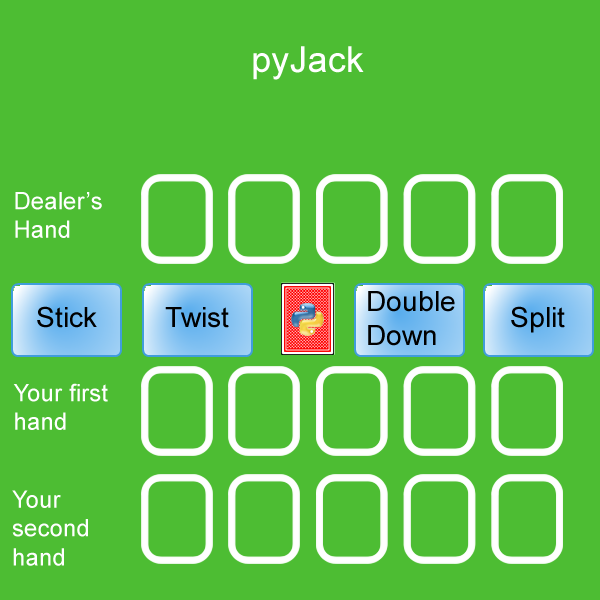
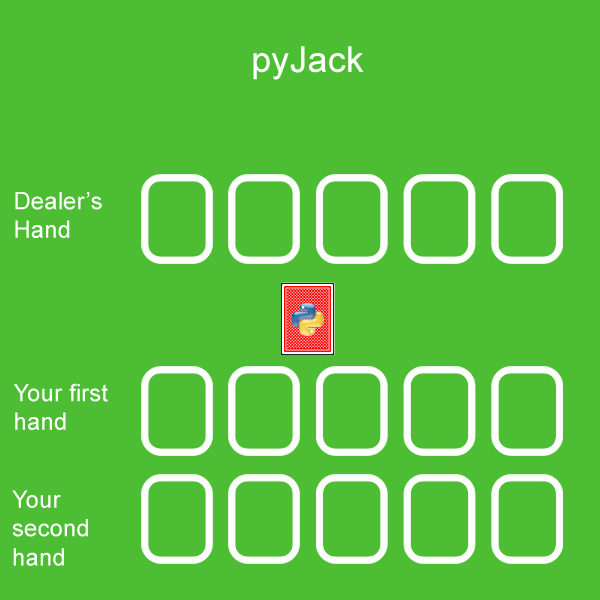
Program draws options
The program draws the various stick and twist options instead of
covering them up. This reduces onscreen flicker and makes the program
more aesthetically pleasing.

Changed region(s): [[0.57, 0.45, 0.99, 0.6], [0.0, 0.45, 0.42, 0.6]]

diff --git a/functions.py b/functions.py
@@ -1,5 +1,6 @@
 import sys, time, os, pygame, string, csv
 from pygame.locals import *
+from pygame import surface
 
 pygame.init()
 
@@ -88,10 +89,9 @@ def deal_cards(p_hand, d_hand, p_coords, d_coords, surface, pause):  # Deals the
     draw_hand(p_hand, p_coords, surface, pause)
 
 def get_choice(hand, deck, split, surface):  # Allows the player to choose what to do
-    blank_surface = pygame.Surface((111, 74))
-    blank_surface.fill((77, 189, 51))
     while True:
         if hand.return_hand()[0].return_rank() == hand.return_hand()[1].return_rank() and split == False and len(hand.return_hand()) == 2 and hand.can_twist():  # If the player has two cards of equal rank, hasn't split, only has two cards in hand and can twist
+            draw_options([0, 1, 2, 3], surface)  # Draw all 4 options
             pygame.display.update()
             event = pygame.event.poll()
             if event.type == MOUSEBUTTONDOWN and event.button == 1:
@@ -114,8 +114,7 @@ def get_choice(hand, deck, split, surface):  # Allows the player to choose what 
                     sys.exit()
 
         elif hand.can_twist() and split == False and len(hand.return_hand()) == 2:  # If the player has two cards, can twist and hasn't split
-            surface.blit(blank_surface, (483, 283))  # Draw green rectangle over split button
-            pygame.display.update()
+            draw_options([0, 1, 2], surface)  # Draw 3 options
             event = pygame.event.poll()
             if event.type == MOUSEBUTTONDOWN and event.button == 1:
                 coords = list(event.pos)
@@ -135,9 +134,7 @@ def get_choice(hand, deck, split, surface):  # Allows the player to choose what 
                     sys.exit()
 
         elif hand.can_twist():  # If the player can twist
-            surface.blit(blank_surface, (483, 283))  # Draw green rectangle over split button
-            surface.blit(blank_surface, (354, 283))  # Draw green rectangle over double down button
-            pygame.display.update()
+            draw_options([0, 1], surface)  # Draw 2 options
             event = pygame.event.poll()
             if event.type == MOUSEBUTTONDOWN and event.button == 1:
                 coords = list(event.pos)
@@ -159,9 +156,6 @@ def get_choice(hand, deck, split, surface):  # Allows the player to choose what 
             return "Stick"  # Auto sticks for the player
 
         else:  # If the player can only stick
-            surface.blit(blank_surface, (483, 283))  # Draw green rectangle over split button
-            surface.blit(blank_surface, (354, 283))  # Draw green rectangle over double down button
-            surface.blit(blank_surface, (142, 283))  # Draw green rectangle over twist button
             pygame.display.update()
             event = pygame.event.poll()
             if event.type == MOUSEBUTTONDOWN and event.button == 1:
@@ -394,3 +388,32 @@ def save_chips(username, chips):  # Writes the number of chips to file
     writer = csv.writer(write_save_file)  # Creates CSV writer
     writer.writerows(lines)  # Writes the rows
     write_save_file.close()  # Closes file
+    
+def draw_options(options, surface):  # Draws the options on screen 
+    stick_option = pygame.image.load(os.path.join('assets', 'stick.png'))  # Loads the stick button image 
+    stick_rect = stick_option.get_rect()  # Creates a rect from this image
+    stick_rect.topleft = (11, 283)  # Sets the top left of the image to this point on the screen
+    twist_option = pygame.image.load(os.path.join('assets', 'twist.png')) 
+    twist_rect = twist_option.get_rect()
+    twist_rect.topleft = (142, 283)
+    double_down_option = pygame.image.load(os.path.join('assets', 'doubledown.png')) 
+    double_down_rect = double_down_option.get_rect()
+    double_down_rect.topleft = (354, 283)
+    split_option = pygame.image.load(os.path.join('assets', 'split.png')) 
+    split_rect = split_option.get_rect()
+    split_rect.topleft = (483, 283)
+    
+    if len(options) == 2:  # If the array has two values
+        surface.blit(stick_option, stick_rect)  # Draw the stick button
+        surface.blit(twist_option, twist_rect)  # Draw the twist button
+    elif len(options) == 3:  # If the array has three values
+        surface.blit(stick_option, stick_rect)
+        surface.blit(twist_option, twist_rect)
+        surface.blit(double_down_option, double_down_rect)  # Draw the double down button
+    elif len(options) == 4:  # If the array has four values
+        surface.blit(stick_option, stick_rect)
+        surface.blit(twist_option, twist_rect)
+        surface.blit(double_down_option, double_down_rect)
+        surface.blit(split_option, split_rect)  # Draw the split button
+        
+    pygame.display.update()  # Update the display
